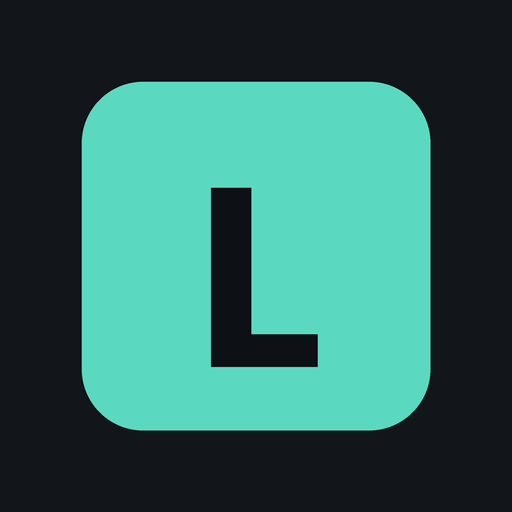
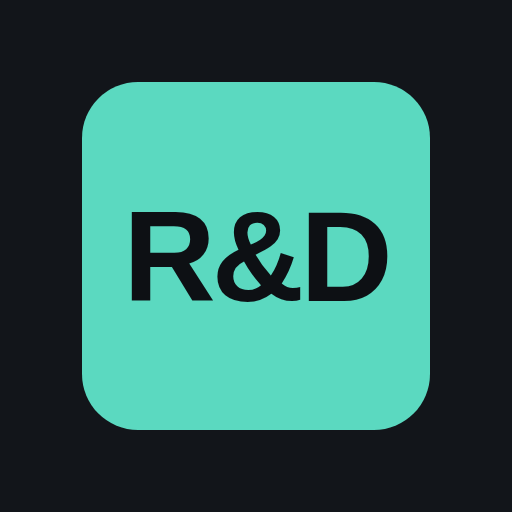
Icona dell'app gestione R&D al posto della L
La nuova icona porta «R&D» sul quadrato verde acqua, con gli stessi
colori di prima. Anche il nome sotto l'icona sulla schermata Home
diventa «Gestione R&D».

Claude-Session: https://claude.ai/code/session_01JqTue3bZ6HmfF7HikVMYa6

diff --git a/index.html b/index.html
@@ -16,7 +16,7 @@
 <meta name="apple-mobile-web-app-capable" content="yes">
 <meta name="mobile-web-app-capable" content="yes">
 <meta name="apple-mobile-web-app-status-bar-style" content="black-translucent">
-<meta name="apple-mobile-web-app-title" content="Laser">
+<meta name="apple-mobile-web-app-title" content="Gestione R&amp;D">
 <link rel="manifest" href="manifest.webmanifest">
 <link rel="icon" href="icona-512.png">
 <link rel="apple-touch-icon" href="icona-180.png">

diff --git a/sw.js b/sw.js
@@ -4,7 +4,7 @@
 // I dati non passano di qui: stanno in localStorage, e la sincronizzazione con
 // OneDrive va verso altri domini, che questo service worker lascia stare.
 
-const CACHE = 'laser-v3';
+const CACHE = 'laser-v4';
 const FILE = ['./', 'index.html', 'manifest.webmanifest', 'icona-180.png', 'icona-512.png'];
 
 self.addEventListener('install', e => {
